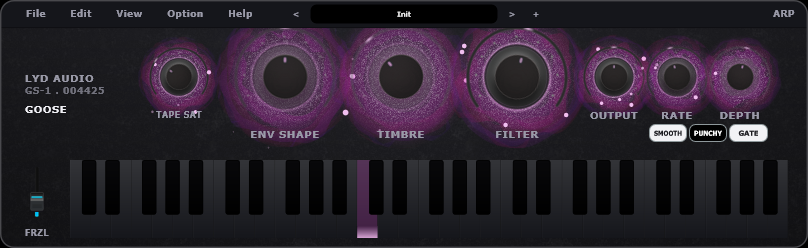
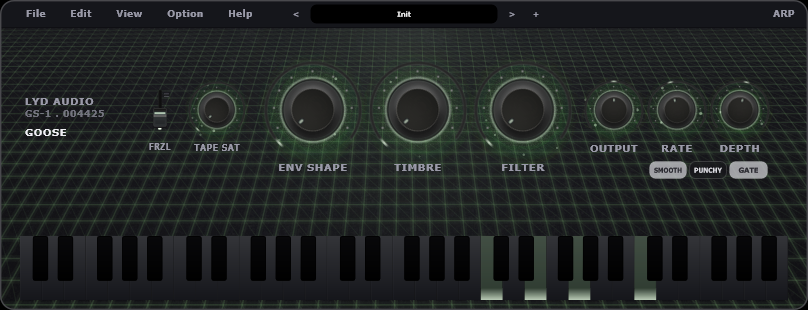
New Goose panel
Re-rendered from the current editor. The previous image was the 2026-09-13
render and the panel has grown since, 808 x 248 to 808 x 310, so the spec
table on the page was printing a number the picture disproved. Fixed with
it; all three panels now agree with their own renders.

Captured in the HIGH register deliberately. Goose tints its whole panel by
the register of the last note played, so the same plugin photographs violet,
red-orange or teal depending on what was held. Green to sit with the rest of
the site.

diff --git a/goose.html b/goose.html
@@ -45,7 +45,7 @@
   <div class="spec"><div class="speck">MODES</div><div class="specv">Light / Dark</div></div>
   <div class="spec"><div class="speck">EXTRAS</div><div class="specv">Arp, Frazzle</div></div>
   <div class="spec"><div class="speck">SATURATION</div><div class="specv">Tape</div></div>
-  <div class="spec"><div class="speck">PANEL</div><div class="specv">808 x 248</div></div>
+  <div class="spec"><div class="speck">PANEL</div><div class="specv">808 x 310</div></div>
   <div class="spec"><div class="speck">FORMAT</div><div class="specv">VST3 / Standalone</div></div>
 </div>
 <div class="foot">
